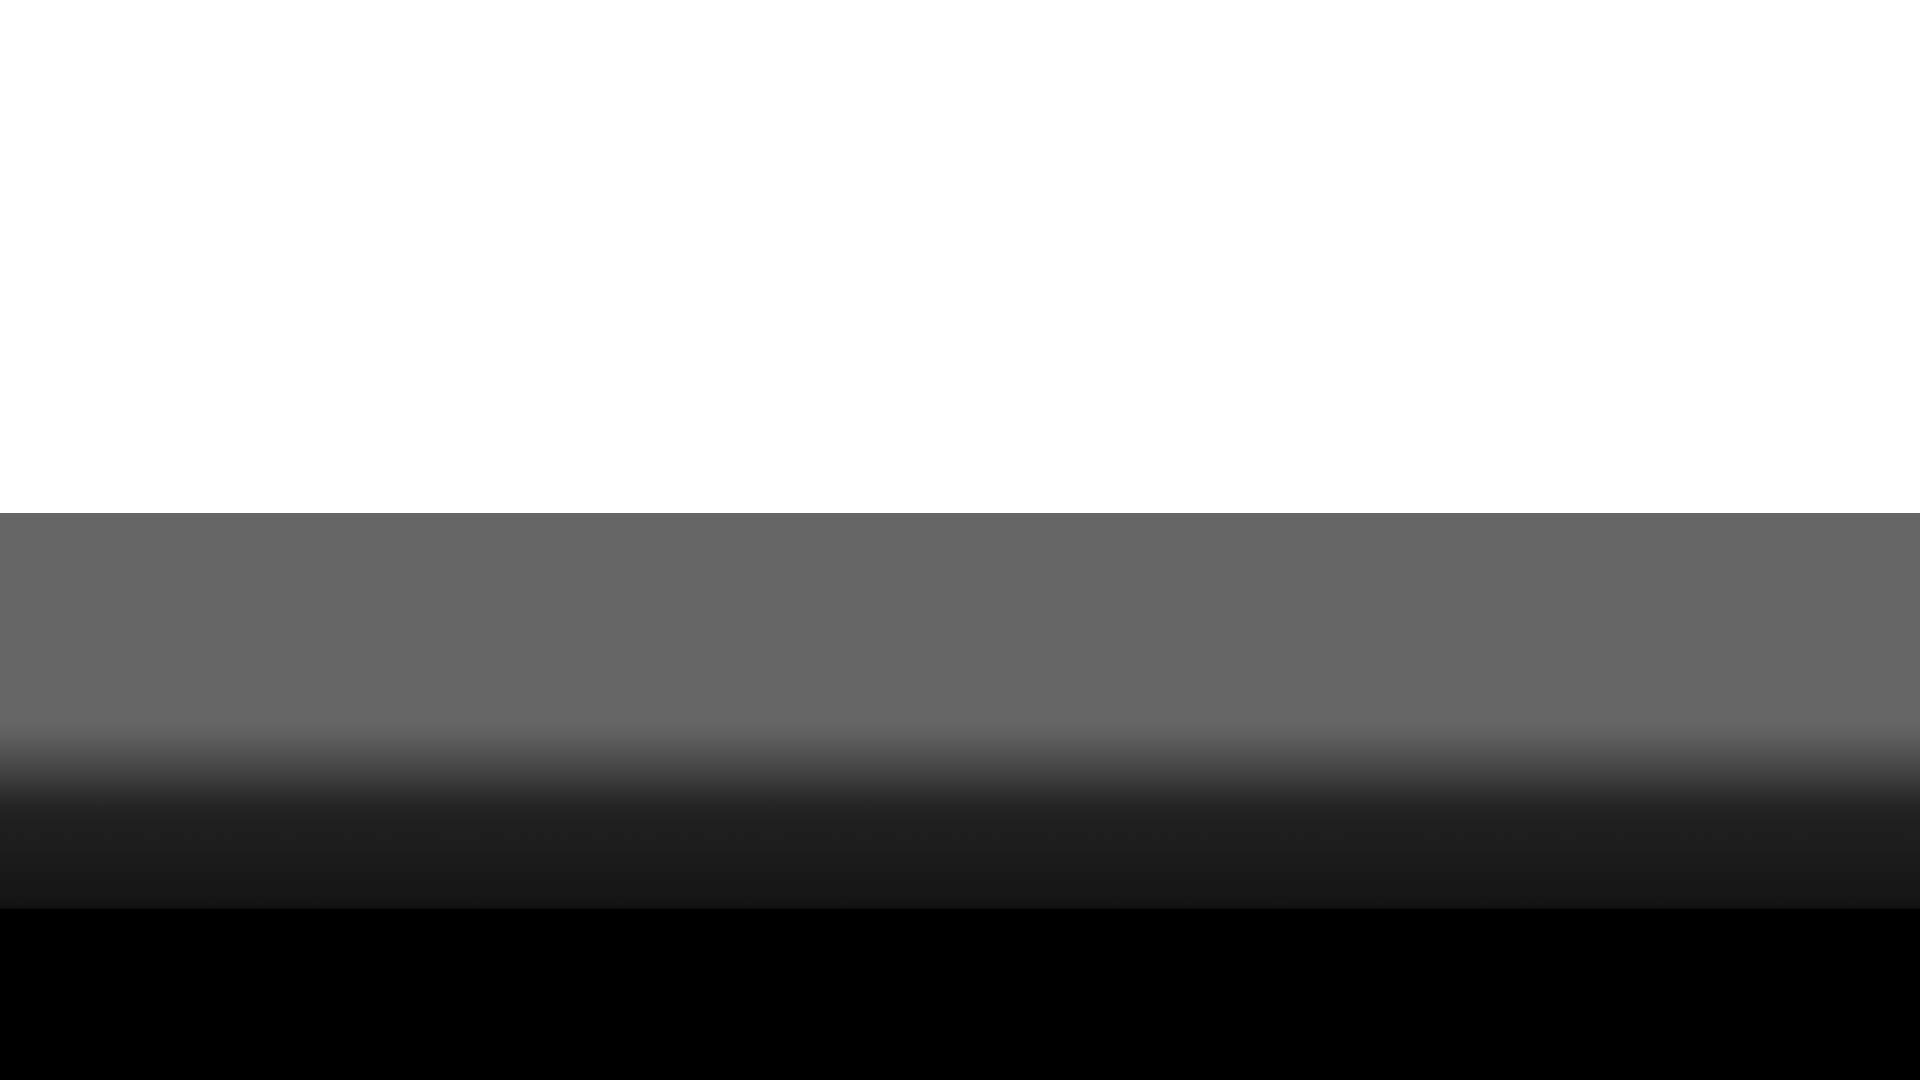
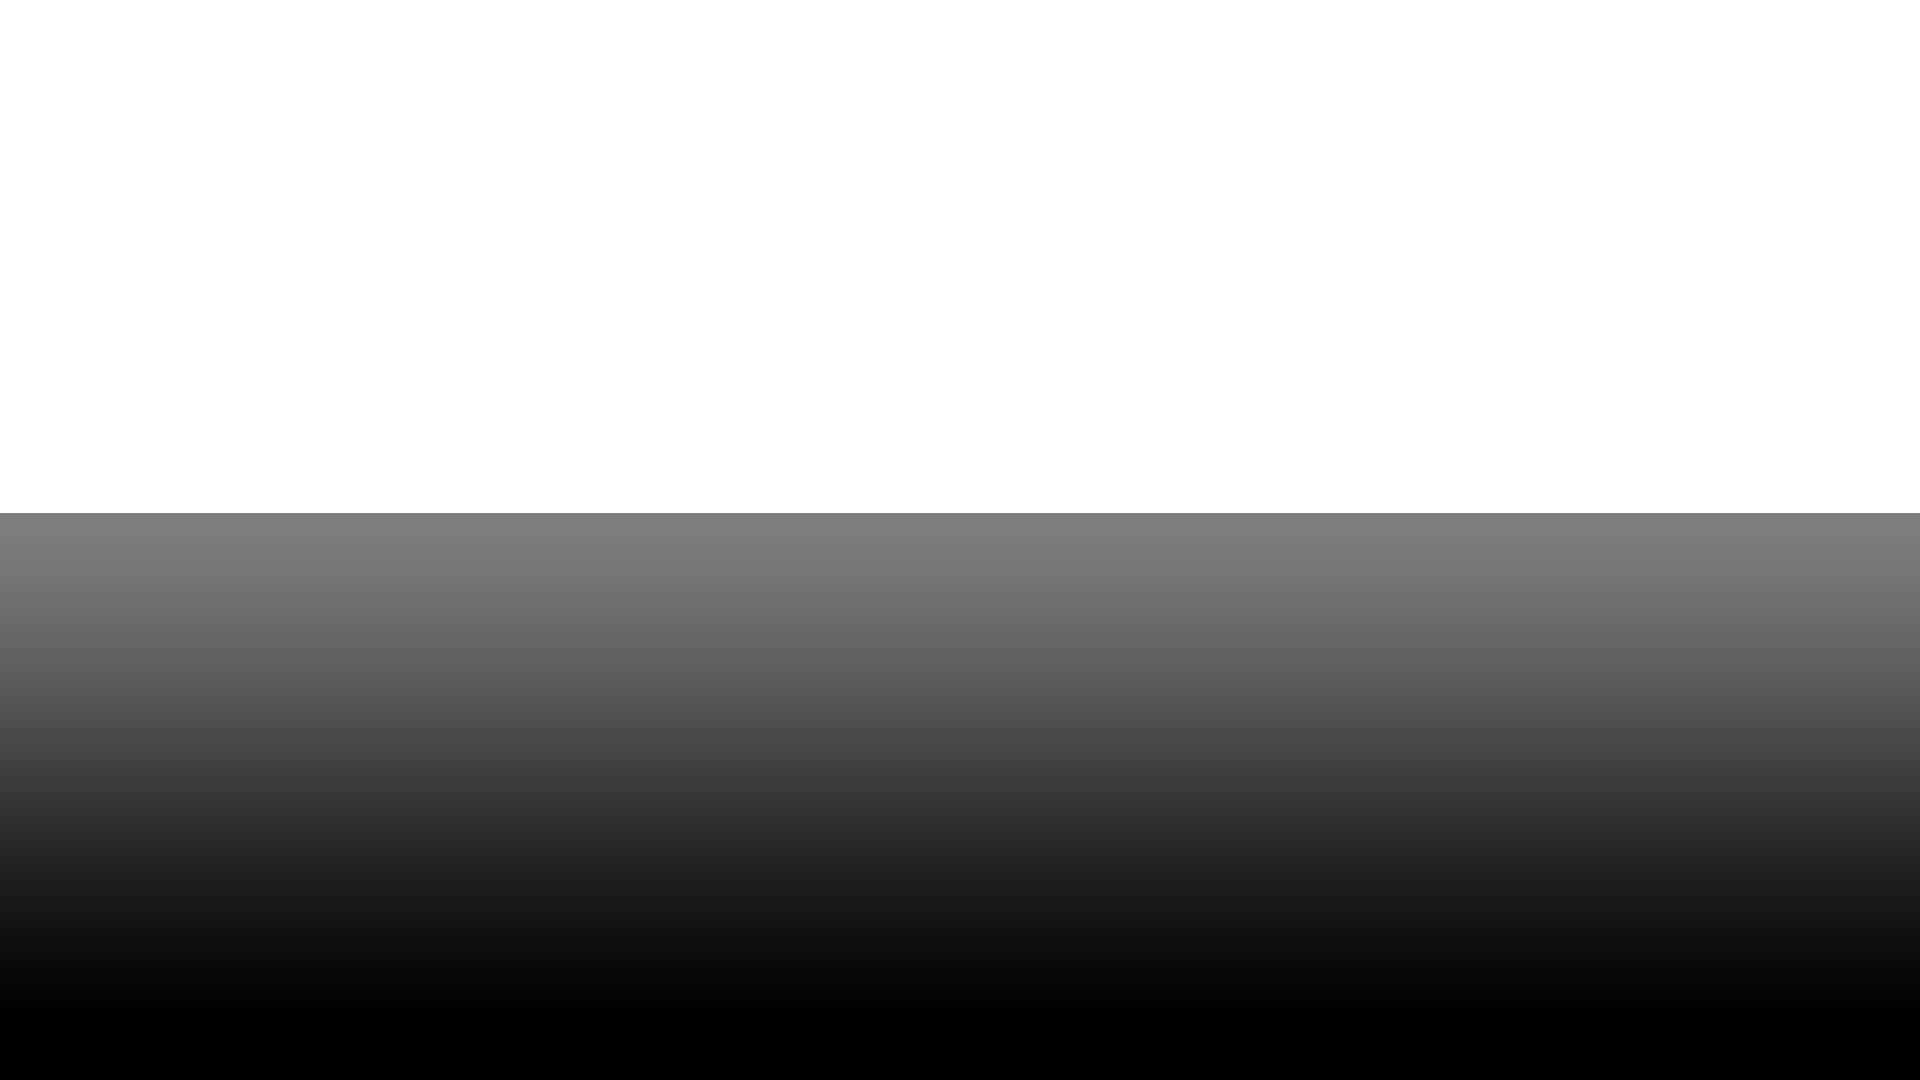
Smoother gradient and blur background

Changed region(s): [[0.0, 0.4583, 1.0, 0.4889]]

diff --git a/PILBackgrounds.py b/PILBackgrounds.py
@@ -12,7 +12,7 @@ import os.path
 from Debug import * 
 
 try:
-    from PIL import Image
+    from PIL import Image, ImageFilter
     __isPILinstalled = True
 except ImportError:
     dprint(__name__, 0, "No PIL/Pillow installation found.")
@@ -53,10 +53,14 @@ def generate(PMS_uuid, url, authtoken, resolution):
     if resolution == '1080':
         width = 1920
         height = 1080
+        blurRegion = (0, 514, 1920, 1080)
+        blurRadius = 45
         layer = Image.open(stylepath + "/gradient_1080.png")
     else:
         width = 1280
         height = 720
+        blurRegion = (0, 342, 1280, 720)
+        blurRadius = 30
         layer = Image.open(stylepath + "/gradient_720.png")
     
     # Set background resolution and merge layers
@@ -68,6 +72,10 @@ def generate(PMS_uuid, url, authtoken, resolution):
         background = background.resize((width, height), Image.ANTIALIAS)
         dprint(__name__,1 , "Resizing background")   
     
+    blurImage = background.crop(blurRegion)
+    blurImage = blurImage.filter(ImageFilter.GaussianBlur(blurRadius))
+    background.paste(blurImage, blurRegion)
+
     background.paste(layer, ( 0, 0), layer)
     
     # Save to Cache
@@ -85,6 +93,7 @@ def isPILinstalled():
 
 
 if __name__=="__main__":
-    url = "http://192.168.178.22:32400/library/metadata/24466/art/1412512746"
-    res = generate('uuid', url, 'authtoken', '1080')
+    url = "http://thetvdb.com/banners/fanart/original/95451-23.jpg"
+    res = generate('TestBackground', url, 'authtoken', '1080')
+    res = generate('TestBackground', url, 'authtoken', '720')
     dprint(__name__, 0, "Background: {0}", res)
